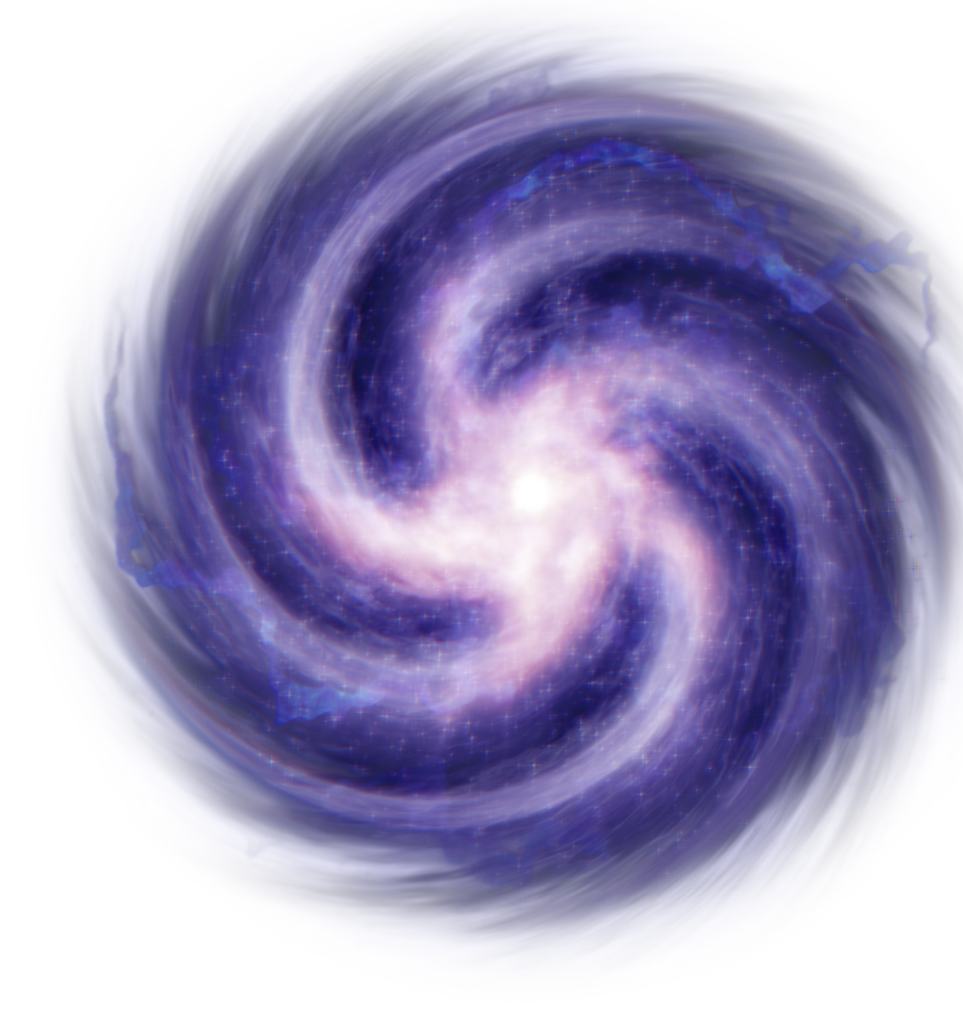
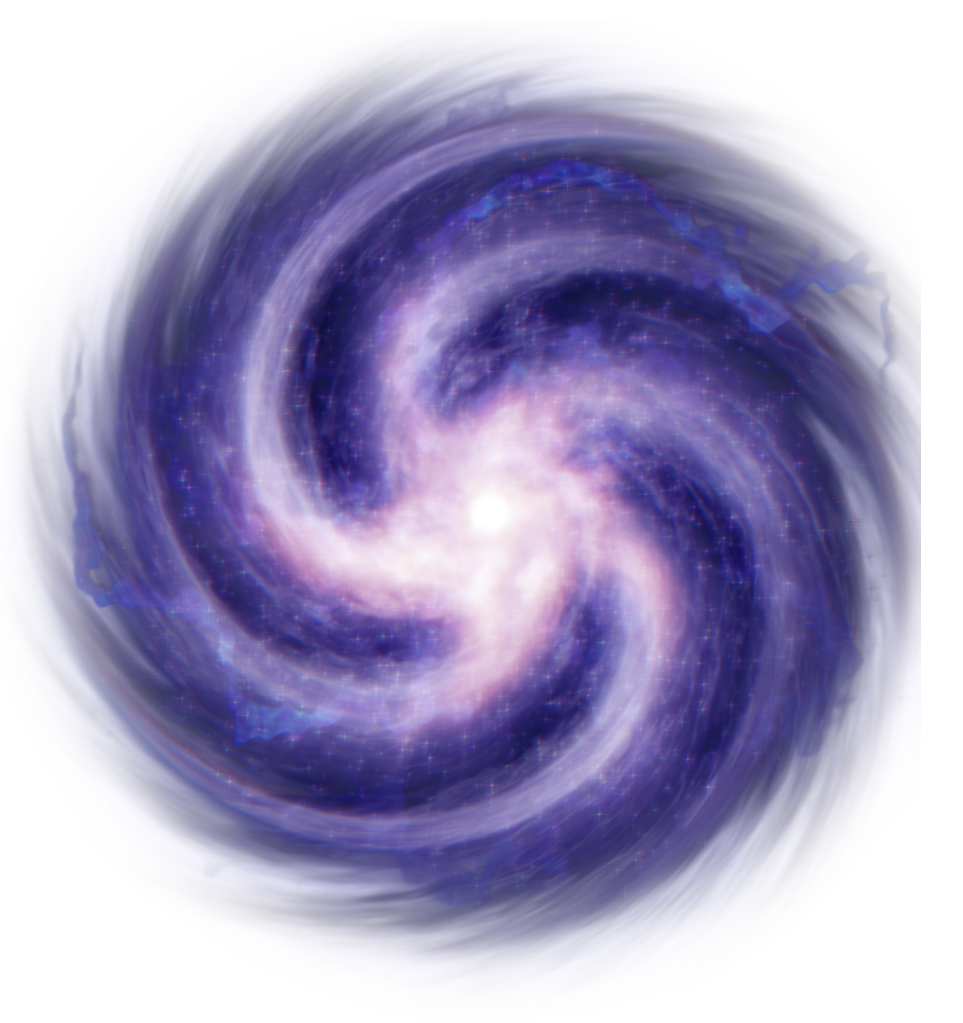
Galaxy rotation

diff --git a/public/images/fonts/fonts.css b/public/images/fonts/fonts.css
@@ -128,12 +128,37 @@
   }
 
   @font-face {
-  font-family: "RobotoThin";
-  src: url(/images/fonts/Robotothin.woff2) format('woff2');
+    font-family: "RobotoThin";
+    src: url(/images/fonts/Robotothin.woff2) format('woff2');
   }
 
   @font-face {
-  font-family: "RobotoThinItalic";
-  src: url(/images/fonts/Robotothinitalic.woff2) format('woff2');
-  font-style: italic;
+    font-family: "RobotoThinItalic";
+    src: url(/images/fonts/Robotothinitalic.woff2) format('woff2');
+    font-style: italic;
+  }
+
+  @keyframes rounding {
+    from {
+      transform: rotate(359deg);
+    }
+    25% {
+      transform: rotate(270deg);
+    }
+    50% {
+      transform: rotate(180deg);
+    }
+    75% {
+      transform: rotate(90deg);
+    }
+    to {
+      transform: rotate(1deg);
+    }
+  }
+
+  .rotating {
+    animation: rounding;
+    animation-duration: 240s;
+    animation-timing-function: linear;
+    animation-iteration-count: infinite;
   }

diff --git a/src/views/Home/components/WinSection/index.tsx b/src/views/Home/components/WinSection/index.tsx
@@ -94,21 +94,6 @@ const imagesGalaxy : CompositeImageProps = {
   ],
 }
 
-const FloatingPancakesWrapper = styled(Container)`
-  overflow: hidden;
-  position: absolute;
-  width: 100%;
-  height: 100%;
-  top: 0;
-  left: 50%;
-  transform: translateX(-50%);
-  visibility: hidden;
-
-  ${({ theme }) => theme.mediaQueries.md} {
-    visibility: visible;
-  }
-`
-
 const TopLeftImgWrapper = styled(Flex)`
   position: absolute;
   left: -330px;

diff --git a/src/views/Home/components/Hero.tsx b/src/views/Home/components/Hero.tsx
@@ -140,7 +140,7 @@ const Hero = () => {
             <CompositeImage {...starsImage} />
   </StarsWrapper> */}
         </Flex>
-        <EnvImg src="/images/home/lunar-galaxy/galaxy.png" alt="galaxy" style={{
+        <EnvImg className="rotating" src="/images/home/lunar-galaxy/galaxy.png" alt="galaxy" style={{
              width: '73%',
              top: -67,
              left: 450

diff --git a/src/views/Referral/index.tsx b/src/views/Referral/index.tsx
@@ -27,7 +27,7 @@ const Referral = () => {
     max-width: 1600px;
     min-height: 100px;
   ` 
-  
+    
   return (
     <>
       {!account ? <PromoPage  /> : 
